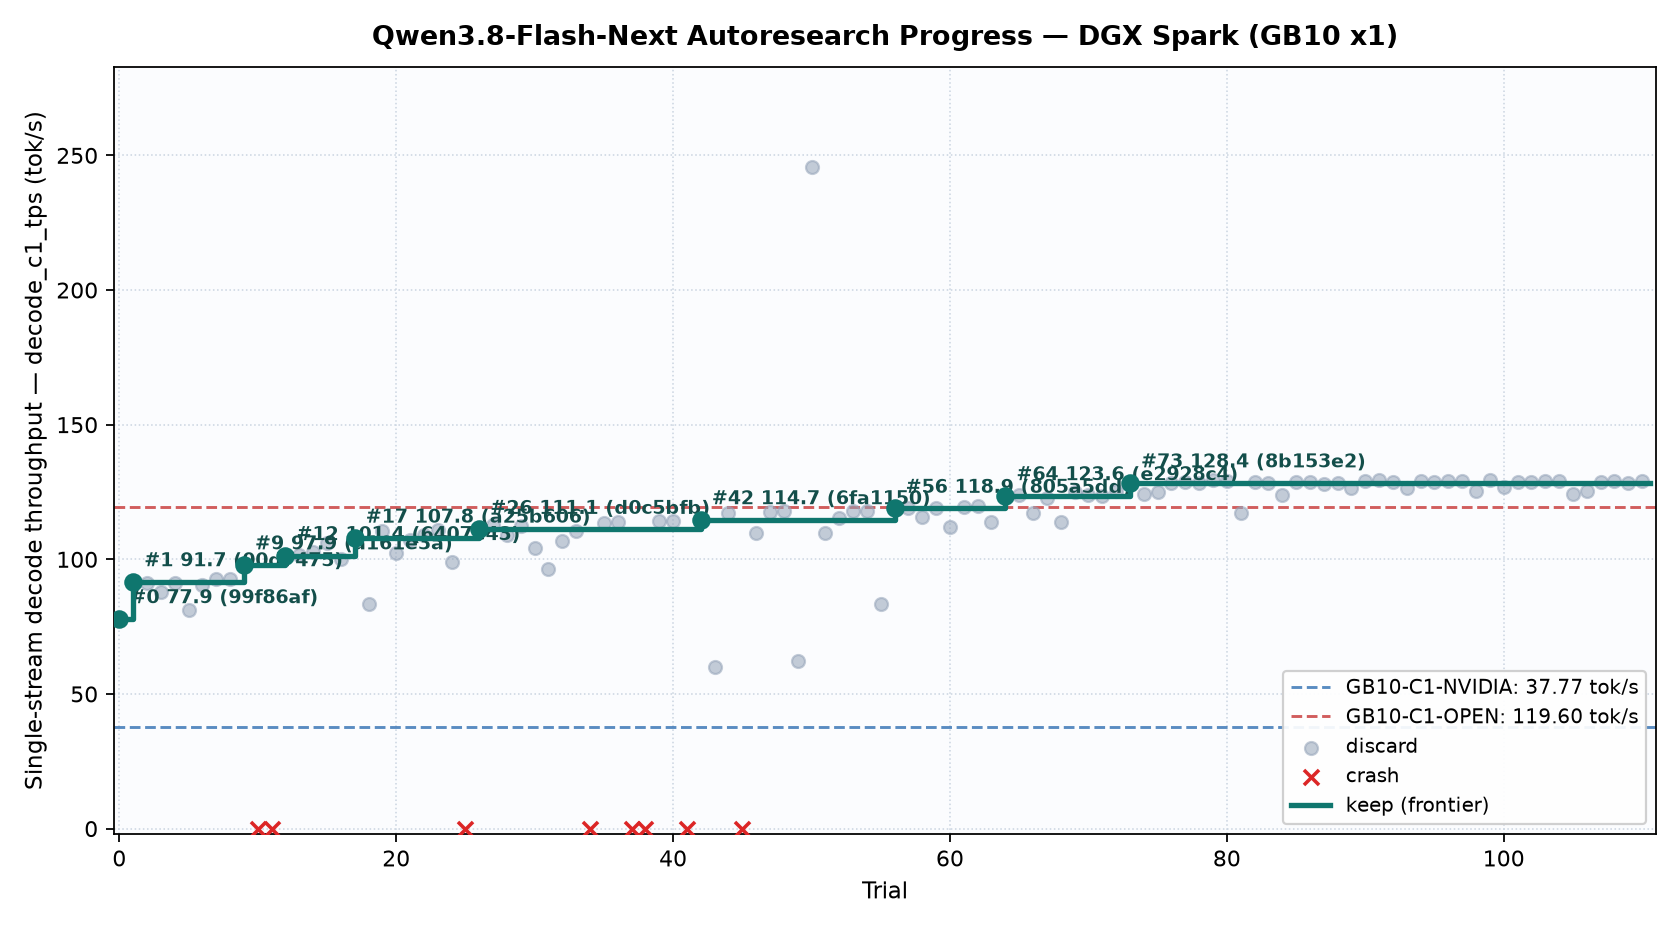
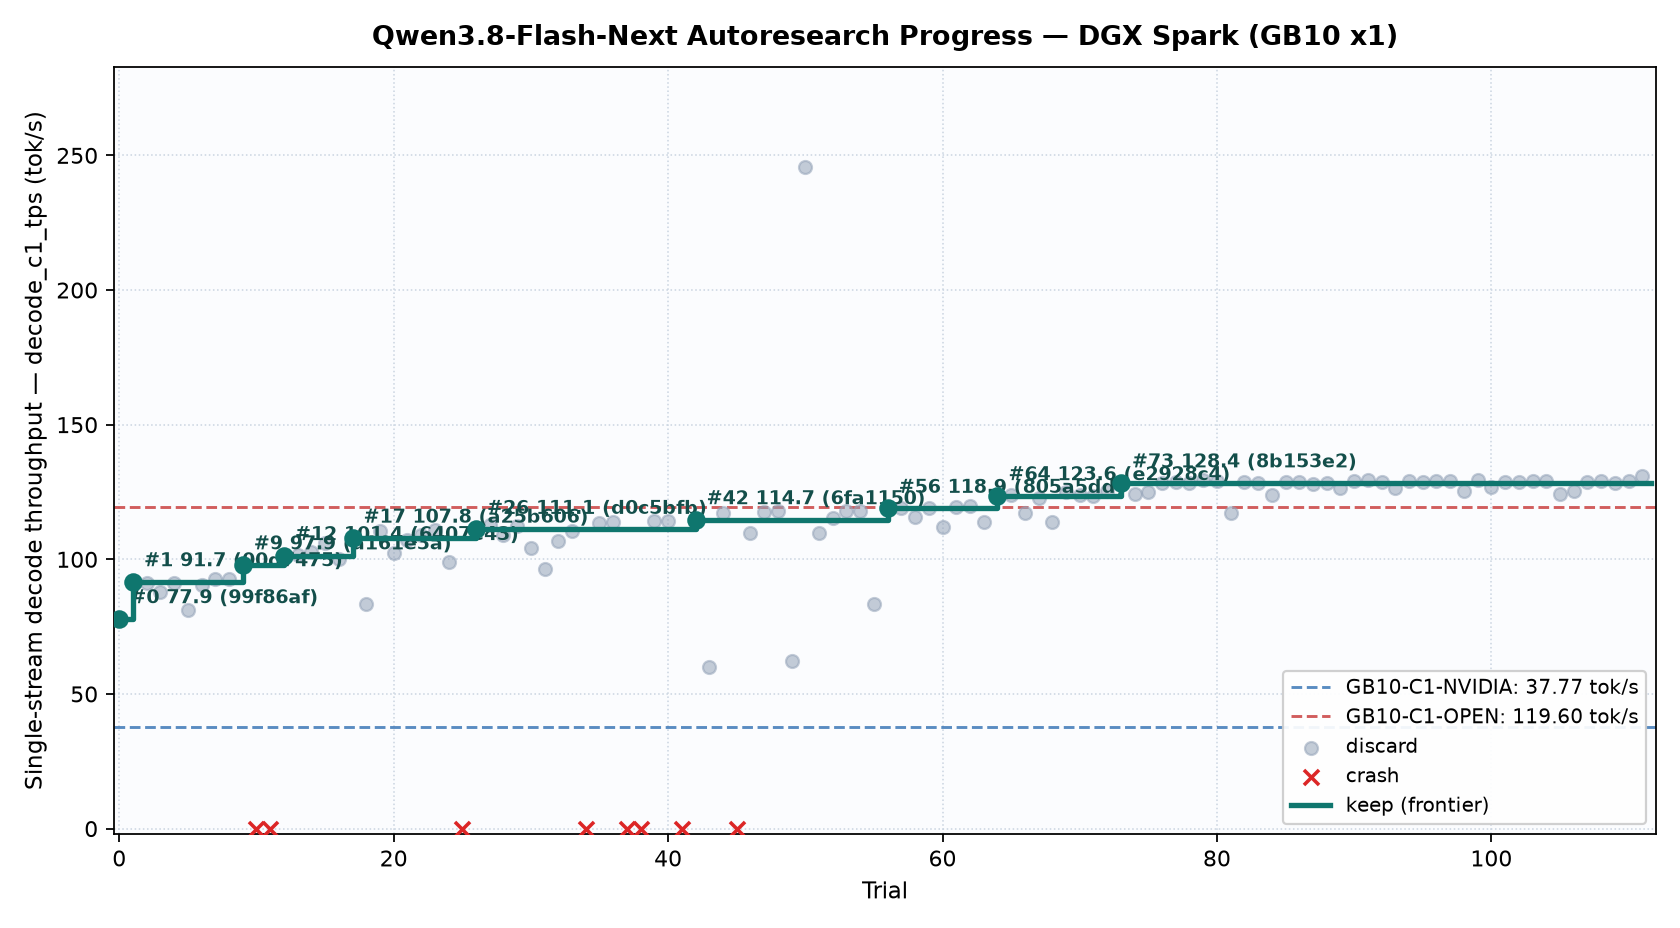
spark trial 111: discard

diff --git a/records/research-log.md b/records/research-log.md
@@ -140,3 +140,4 @@ Deprioritized: **3-bit expert weights** (Hibana +43% but GPQA -0.3, LCB -2.3; on
 | 2026-11-21 17:53 | 108 (new stack) | <https://github.com/vllm-project/vllm/pull/68805> | Checked six release, commit and PR feeds. The Spark CI proposal covers NVFP4 and MTP. Trial 89 lost C1 with a lower draft scale. | Defer the CI change. Test 1.23 on the binary proposal logits with the same BF16 rescore and target verification. |
 | 2026-11-21 17:58 | 109 (new stack) | <https://github.com/NVIDIA/TensorRT-LLM/commit/97e061417ccee46b6a8537a18d081f687bda6a93> | Six upstream feeds checked. TensorRT-LLM specializes small MoE projections. vLLM added a 16-bit DeltaNet MTP kernel. Trial 108 gained 0.66% with matching hashes. | Adapt the small-row specialization to GB10. Load each output warp's halves of gate and up directly and exchange scales inside the warp. |
 | 2026-11-21 18:06 | 110 (new stack) | <https://github.com/ashhart/TensorFold/pull/3477> | Six upstream feeds checked. TensorFold's new peer-load check concerns two ranks. Trial 109 gained 0.07%, so the next test targets draft shortlist quality. | Test a diagonal rescaling derived from checkpoint weights across proposal rows, paired with activation rescaling at inference. |
+| 2026-11-21 18:15 | 111 (new stack) | <https://github.com/vllm-project/vllm/pull/68805>, <https://forums.developer.nvidia.com/t/qwen3-8-flash-next-at-101-tok-s-on-one-dgx-spark-with-image-input-hibana-fast-docker-compose/389731/2> | Six upstream feeds checked. A new single-Spark Hibana fast report uses calibrated three-bit weights and omits the text output length and local GPQA score; comparison pending. Trial 110 measured 128.99 tok/s at C1 (+0.48% versus parent). | Test both the original and a clipped E4M3 scale per 16 FP8 draft weights, and store whichever has lower squared error. |
